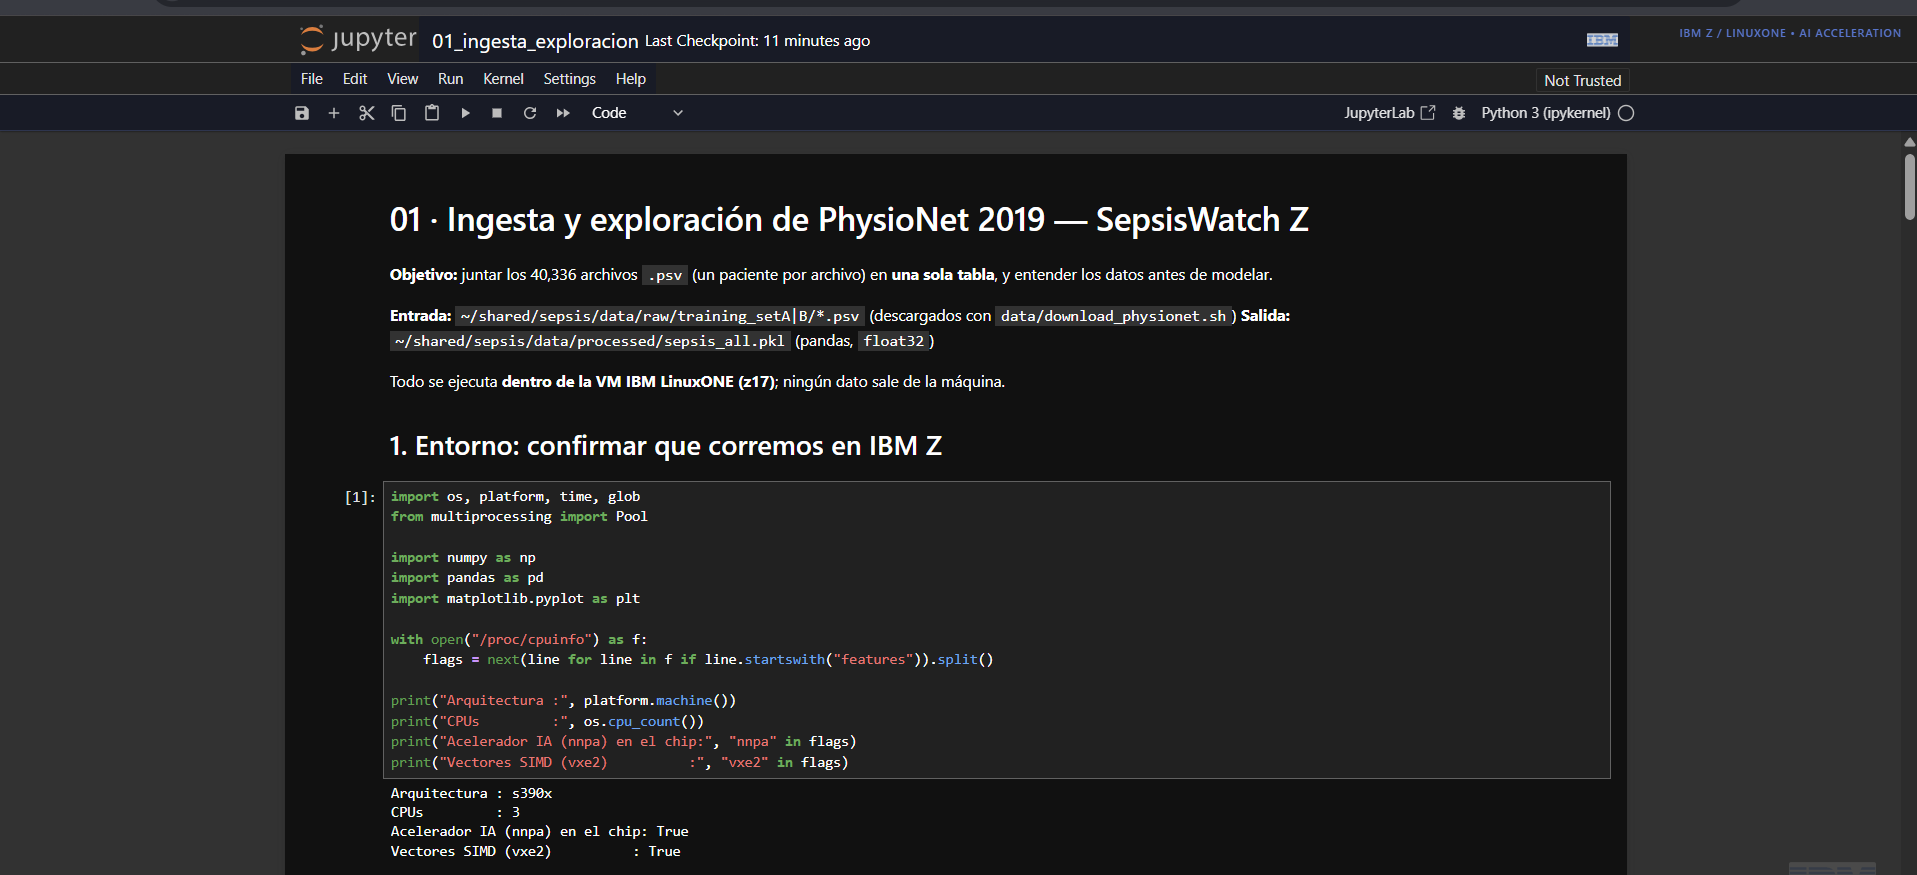
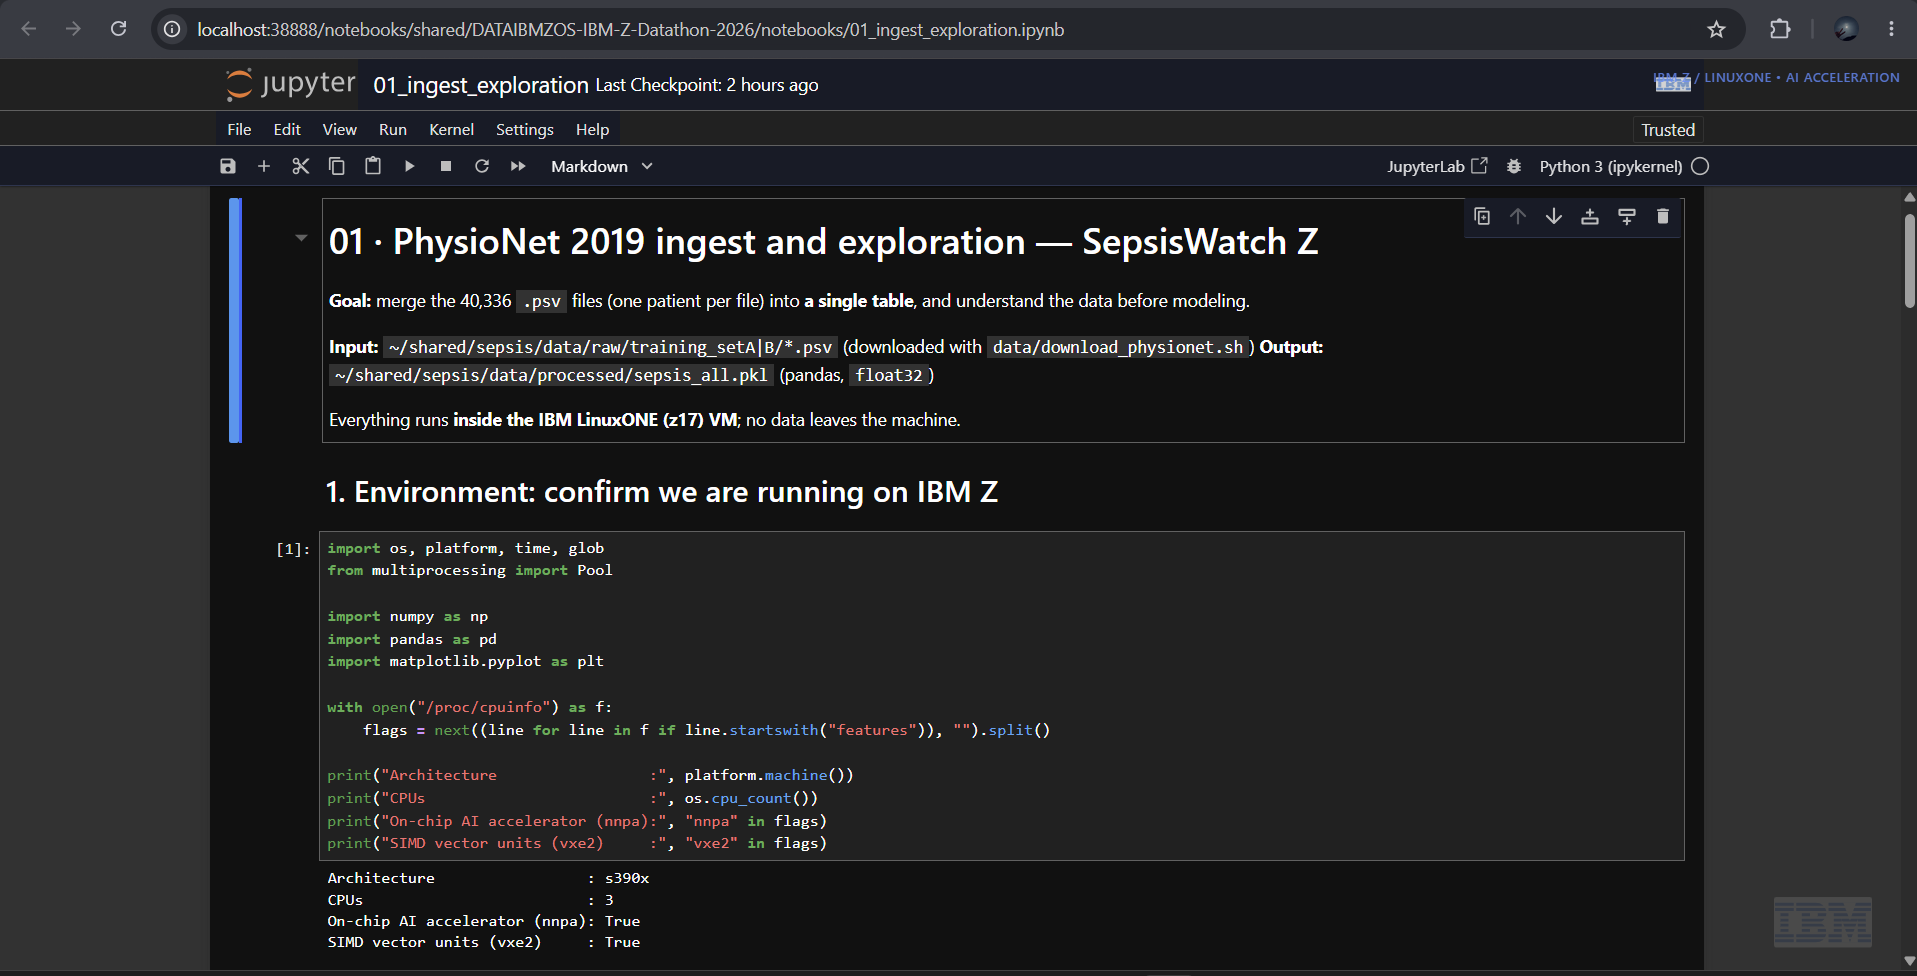
Add platform, security and service evidence 06, 09-18

diff --git a/docs/evidence/CHECKLIST.md b/docs/evidence/CHECKLIST.md
@@ -14,25 +14,25 @@ All screenshots must show **English** output.
 
 ## B. Data and features
 
-- [ ] `06-notebook-env-s390x-nnpa.png` — notebook 01, section 1: s390x, 3 CPUs, NNPA and vxe2 = True · *recapture in English*
+- [x] `06-notebook-env-s390x-nnpa.png` — notebook 01, section 1: s390x, 3 CPUs, NNPA and vxe2 = True
 - [ ] `07-ingest-z17.png` — notebook 01, section 4: 40,336 patients, 1,552,210 rows, total ingest time on s390x · *recapture in English*
 - [ ] `08-features-z17.png` — notebook 02: train/val/test split table and "Total notebook time ... on s390x"
 
 ## C. IBM Z capabilities
 
-- [ ] `09-z17-nnpa-flag.png` — `lscpu` (Machine type 9175) and `grep -o -w nnpa /proc/cpuinfo`
-- [ ] `10-zvm-ifl.png` — `sudo vmcp q v all` showing the 3 IFL CPUs
+- [x] `09-z17-nnpa-flag.png` — `lscpu` (Machine type 9175) and `grep -o -w nnpa /proc/cpuinfo`
+- [x] `10-zvm-ifl.png` — `sudo vmcp q v all` showing the 3 IFL CPUs
 - [ ] `11-tensor-nnpa.png` — notebook 04, section 6: `NNPA available: True` and "Evidence 11 → device: nnpa:0"
 - [ ] `12-latency-cpu-vs-nnpa.png` — notebook 04, section 8: p50/p95 table and chart
-- [ ] `13-cpacf-openssl.png` — `grep -E '^driver' /proc/crypto` (aes-s390) and `openssl speed -evp aes-256-gcm -seconds 3`
-- [ ] `14-granite-zdnn.png` — Granite load log showing `libggml-zdnn.so`
+- [x] `13-cpacf-openssl.png` — `grep -E '^driver' /proc/crypto` (aes-s390) and `openssl speed -evp aes-256-gcm -seconds 3`
+- [x] `14-granite-zdnn.png` — Granite load log showing `libggml-zdnn.so`
 
 ## D. Services and security
 
-- [ ] `15-docker-compose-ps.png` — `docker compose ps` with replayer, scorer, granite and dashboard up
-- [ ] `16-audit-ok.png` — `verify_audit.py` passing (green)
-- [ ] `17-audit-tampered.png` — `verify_audit.py` failing (red) after editing one record
-- [ ] `18-apparmor.png` — `sudo aa-status`
+- [x] `15-docker-compose-ps.png` — `docker compose ps` with replayer, scorer, granite and dashboard up
+- [x] `16-audit-ok.png` — `verify_audit.py` passing (green)
+- [x] `17-audit-tampered.png` — `verify_audit.py` failing (red) after editing one record
+- [x] `18-apparmor.png` — `sudo aa-status`
 
 ## E. Model and results
 
